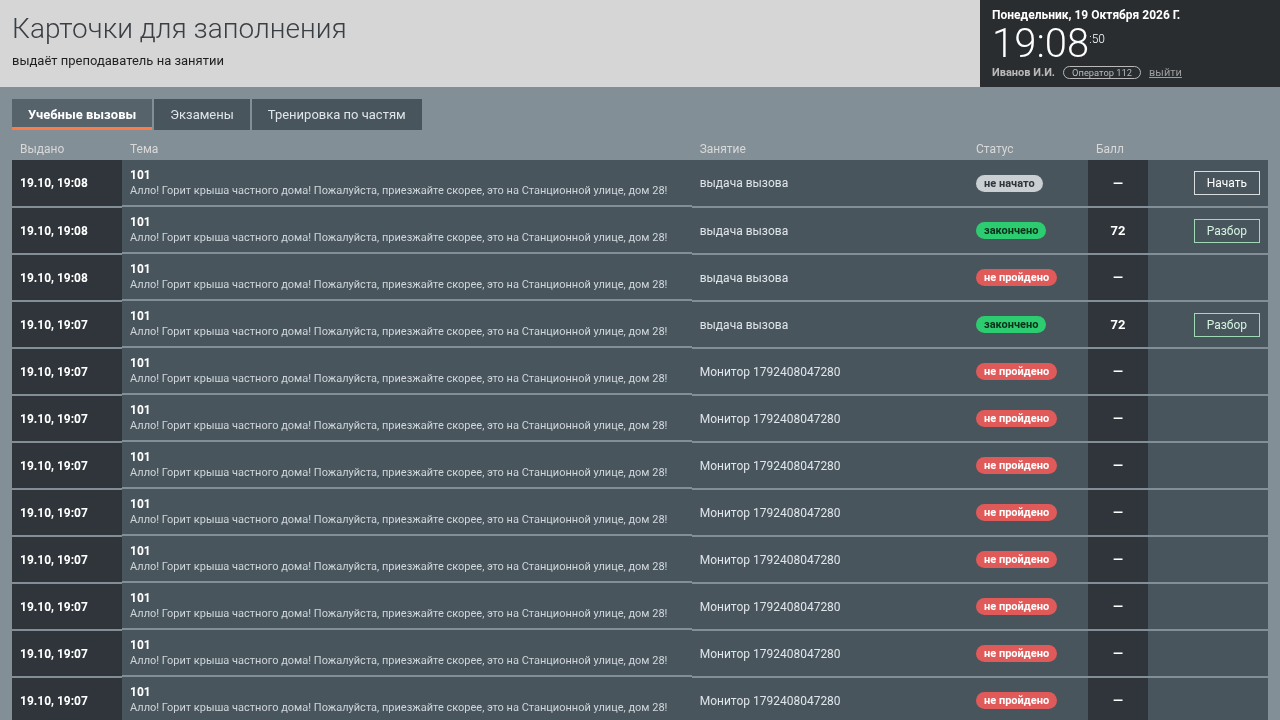
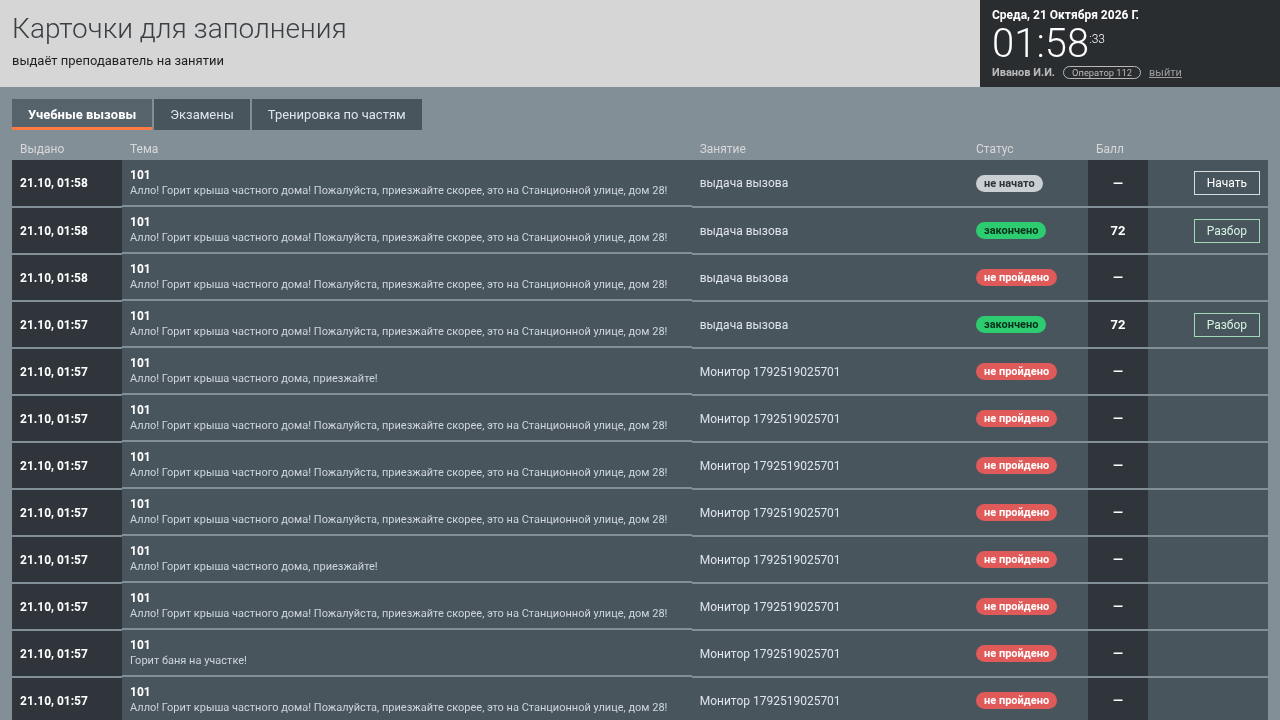
Документация: согласование числительного
Claude-Session: https://claude.ai/code/session_019tiXacxAfw5zX8YaTotXTh

diff --git a/docs/1-Общее-техническое-описание.md b/docs/1-Общее-техническое-описание.md
@@ -135,7 +135,7 @@
 формирование происшествий — чистые функции без HTTP и моделей),
 `ingest/` (импорт классификатора и билетов), `jobs/` (сторож
 нормативов, доклады бригад, очередь модели), `ml/` (адаптеры моделей
-и заглушка). Все 437 серверных проверки выполняются без модели.
+и заглушка). Все 437 серверных проверок выполняются без модели.
 
 Клиент — слоистая раскладка `shared → entities → widgets → pages`,
 HashRouter, поэтому собранный клиент отдаётся статикой. Канал событий
